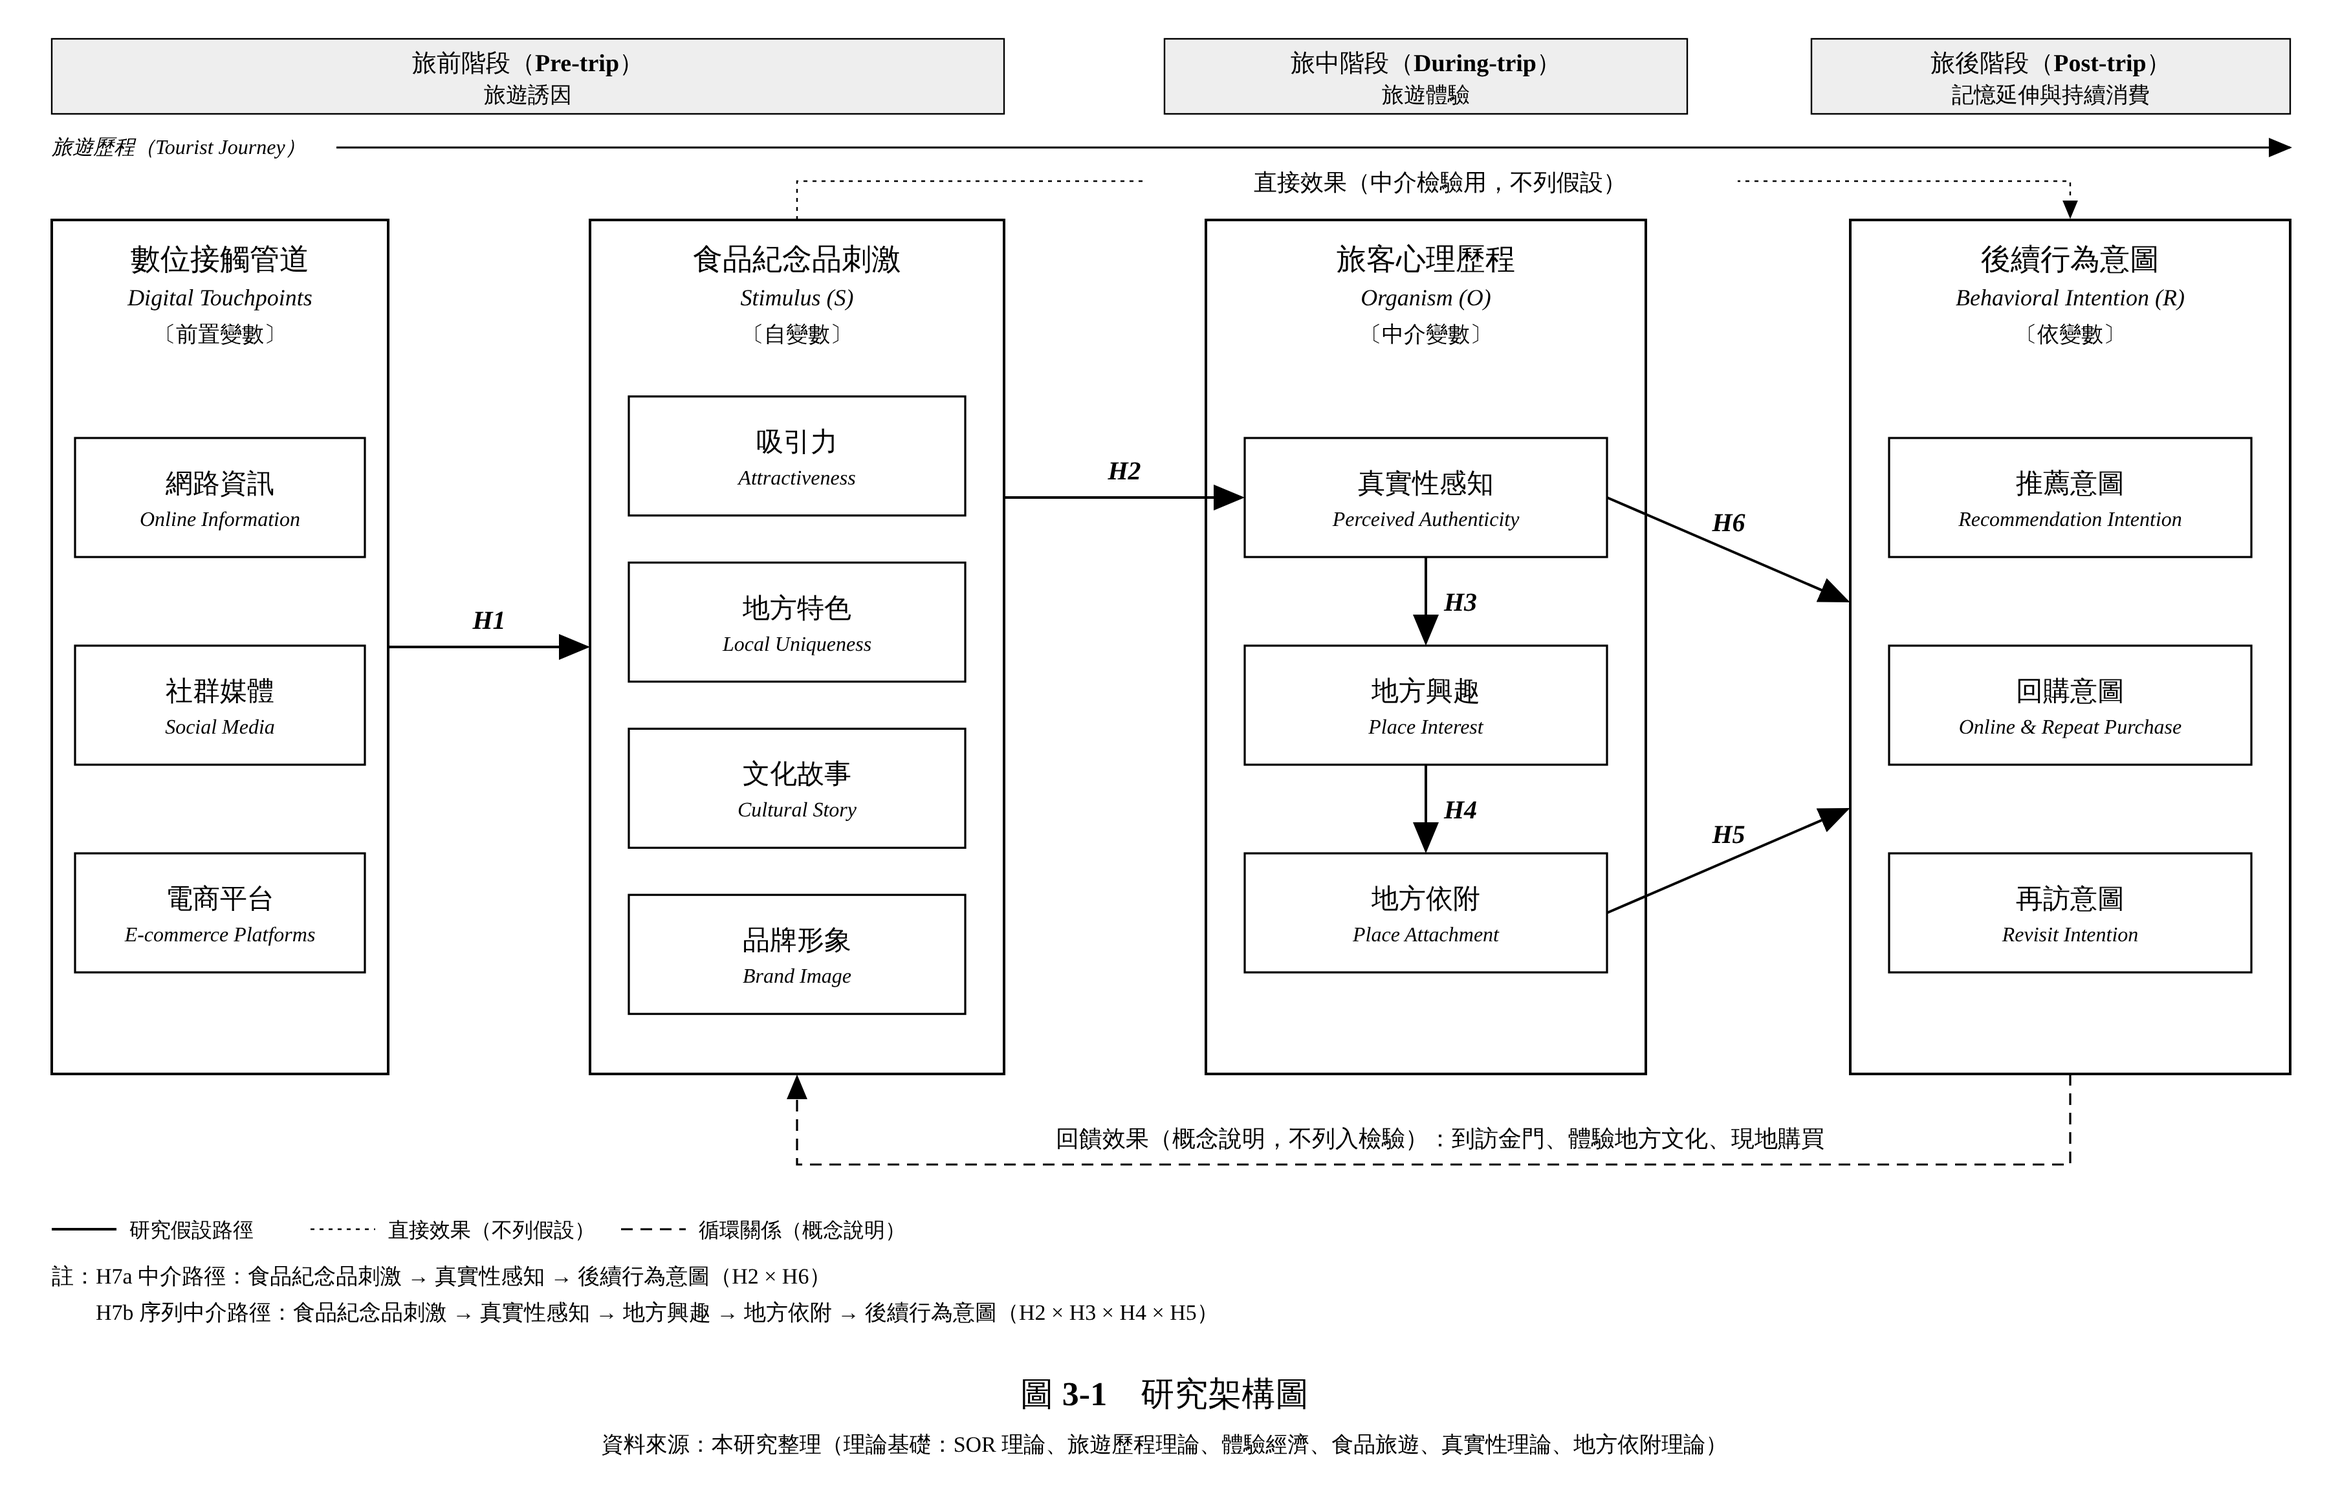
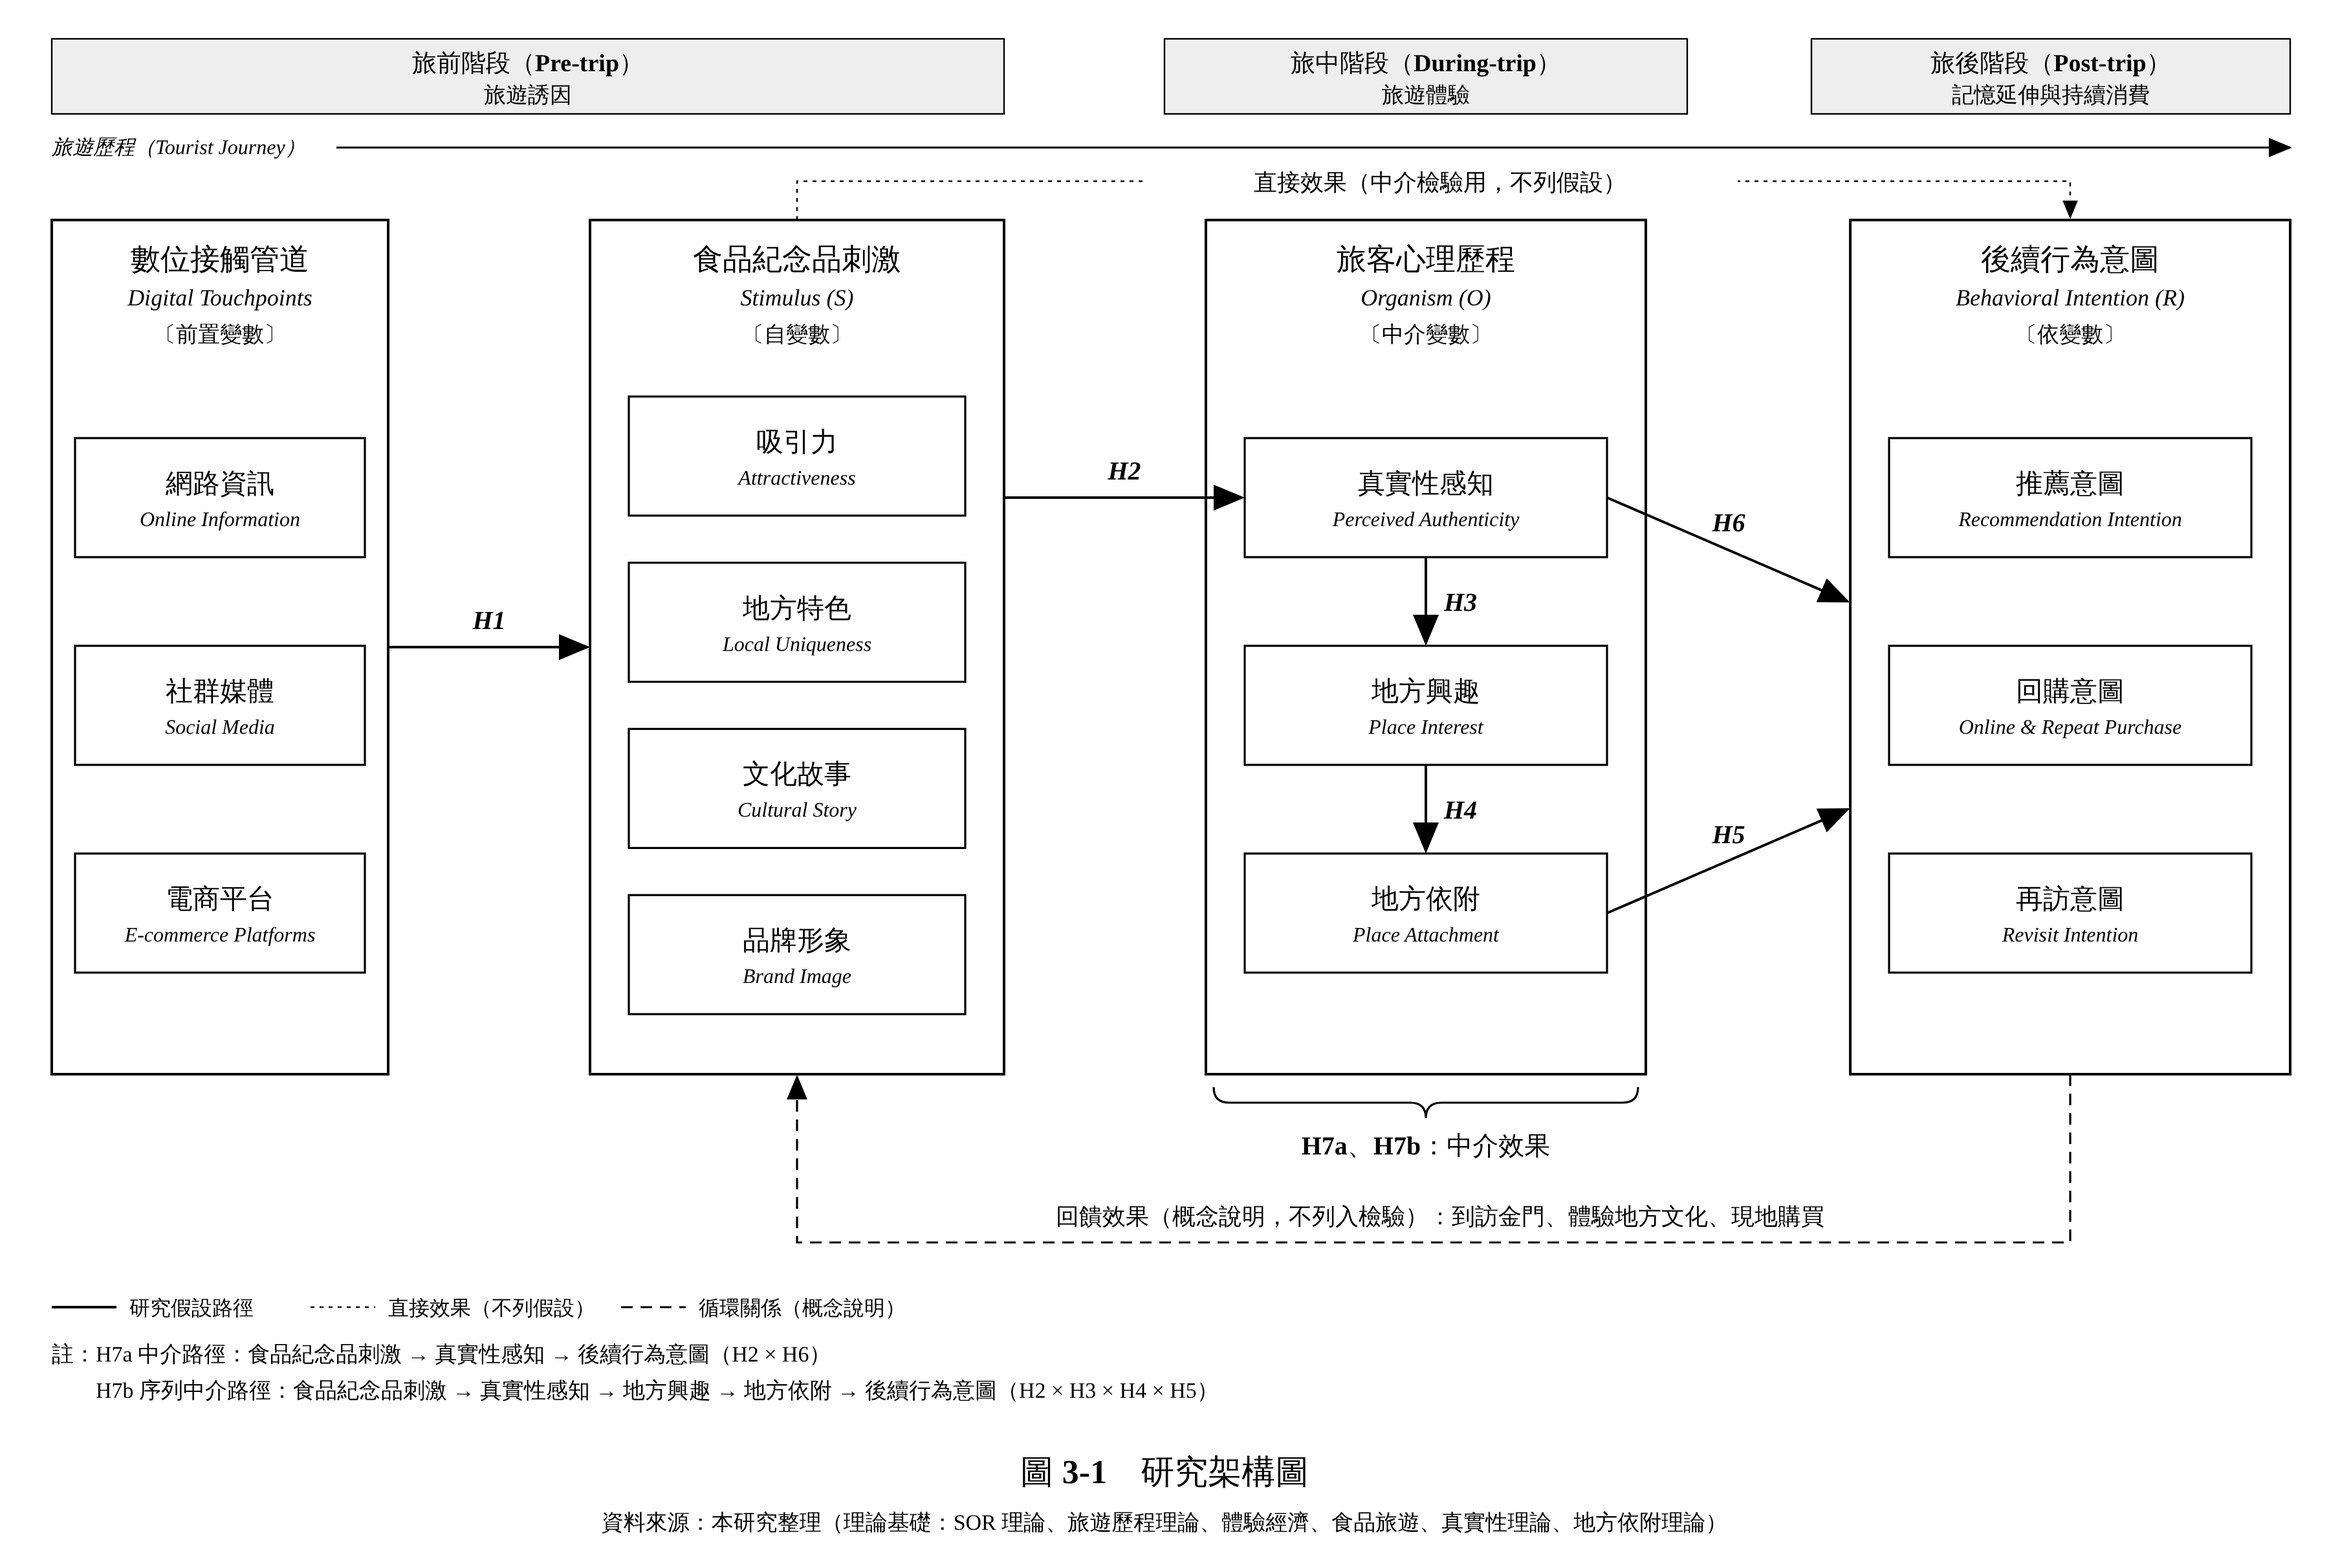
Mark H7a/H7b mediation with a brace under the organism construct
Claude-Session: https://claude.ai/code/session_011LEWBdDbjvikSYiUgKkdrc

diff --git a/research-framework/render.js b/research-framework/render.js
@@ -3,7 +3,7 @@ const { chromium } = require('playwright');
 const fs = require('fs'), path = require('path');
 (async () => {
   const svg = fs.readFileSync(path.join(__dirname, 'research_framework.svg'), 'utf8');
-  const [W, H] = [1800, 1150];
+  const [W, H] = [1800, 1210];
   const b = await chromium.launch();
   const pg = await b.newPage({ viewport: { width: W, height: H }, deviceScaleFactor: 2 });
   await pg.setContent(`<html><body style="margin:0">${svg}</body></html>`);

diff --git a/research-framework/build.py b/research-framework/build.py
@@ -2,7 +2,7 @@
 import pathlib
 import subprocess
 
-W, H = 1800, 1150
+W, H = 1800, 1210
 FONT = "'Times New Roman','Liberation Serif','WenQuanYi Zen Hei',serif"
 out = []
 a = out.append
@@ -104,15 +104,24 @@ a(f'<path d="M{sx + sw_ / 2},{Y0} L{sx + sw_ / 2},{Y0 - 30} L{rx + rw / 2},{Y0 -
 a(f'<rect x="{(sx+rx+rw)/2 - 230}" y="{Y0 - 44}" width="460" height="28" fill="#fff"/>')
 text((sx + rx + rw) / 2, Y0 - 23, "直接效果（中介檢驗用，不列假設）", 18)
 
+# H7：中介效果以大括號標示於 O 構面下方（不另畫路徑）
+by, bh, br = Y1 + 10, 24, 12
+xm, x1, x2 = ox + ow / 2, ox + 6, ox + ow - 6
+a(f'<path d="M{x1},{by} Q{x1},{by + bh / 2} {x1 + br},{by + bh / 2} L{xm - br},{by + bh / 2} '
+  f'Q{xm},{by + bh / 2} {xm},{by + bh} Q{xm},{by + bh / 2} {xm + br},{by + bh / 2} '
+  f'L{x2 - br},{by + bh / 2} Q{x2},{by + bh / 2} {x2},{by}" fill="none" stroke="#000" stroke-width="1.6"/>')
+hyp(xm, by + bh + 28, "H7a、H7b：中介效果")
+out[-1] = out[-1].replace('font-style="italic"', 'font-style="normal"')
+
 # 回饋（循環）路徑：概念說明，不列入檢驗
-FB = 900
+FB = 960
 a(f'<path d="M{rx + rw / 2},{Y1} L{rx + rw / 2},{FB} L{sx + sw_ / 2},{FB} L{sx + sw_ / 2},{Y1 + 2}" '
   'fill="none" stroke="#000" stroke-width="1.6" stroke-dasharray="9,6" marker-end="url(#ah)"/>')
 text((sx + rx + rw) / 2, FB - 14,
      "回饋效果（概念說明，不列入檢驗）：到訪金門、體驗地方文化、現地購買", 18)
 
 # 圖例
-lx, ly = 40, 950
+lx, ly = 40, 1010
 a(f'<line x1="{lx}" y1="{ly}" x2="{lx+50}" y2="{ly}" stroke="#000" stroke-width="2"/>')
 text(lx + 60, ly + 6, "研究假設路徑", 16, anchor="start")
 a(f'<line x1="{lx+200}" y1="{ly}" x2="{lx+250}" y2="{ly}" stroke="#000" stroke-width="1.2" stroke-dasharray="3,4"/>')
@@ -121,12 +130,12 @@ a(f'<line x1="{lx+440}" y1="{ly}" x2="{lx+490}" y2="{ly}" stroke="#000" stroke-w
 text(lx + 500, ly + 6, "循環關係（概念說明）", 16, anchor="start")
 
 # 中介假設註記
-text(40, 992, "註：H7a 中介路徑：食品紀念品刺激 → 真實性感知 → 後續行為意圖（H2 × H6）", 17, anchor="start")
-text(40, 1020, "　　H7b 序列中介路徑：食品紀念品刺激 → 真實性感知 → 地方興趣 → 地方依附 → 後續行為意圖（H2 × H3 × H4 × H5）", 17, anchor="start")
+text(40, 1052, "註：H7a 中介路徑：食品紀念品刺激 → 真實性感知 → 後續行為意圖（H2 × H6）", 17, anchor="start")
+text(40, 1080, "　　H7b 序列中介路徑：食品紀念品刺激 → 真實性感知 → 地方興趣 → 地方依附 → 後續行為意圖（H2 × H3 × H4 × H5）", 17, anchor="start")
 
 # 圖名與資料來源（論文格式：圖名置於圖下方）
-text(W / 2, 1086, "圖 3-1　研究架構圖", 26, "bold")
-text(W / 2, 1122, "資料來源：本研究整理（理論基礎：SOR 理論、旅遊歷程理論、體驗經濟、食品旅遊、真實性理論、地方依附理論）", 17)
+text(W / 2, 1146, "圖 3-1　研究架構圖", 26, "bold")
+text(W / 2, 1182, "資料來源：本研究整理（理論基礎：SOR 理論、旅遊歷程理論、體驗經濟、食品旅遊、真實性理論、地方依附理論）", 17)
 a("</svg>")
 
 here = pathlib.Path(__file__).parent
